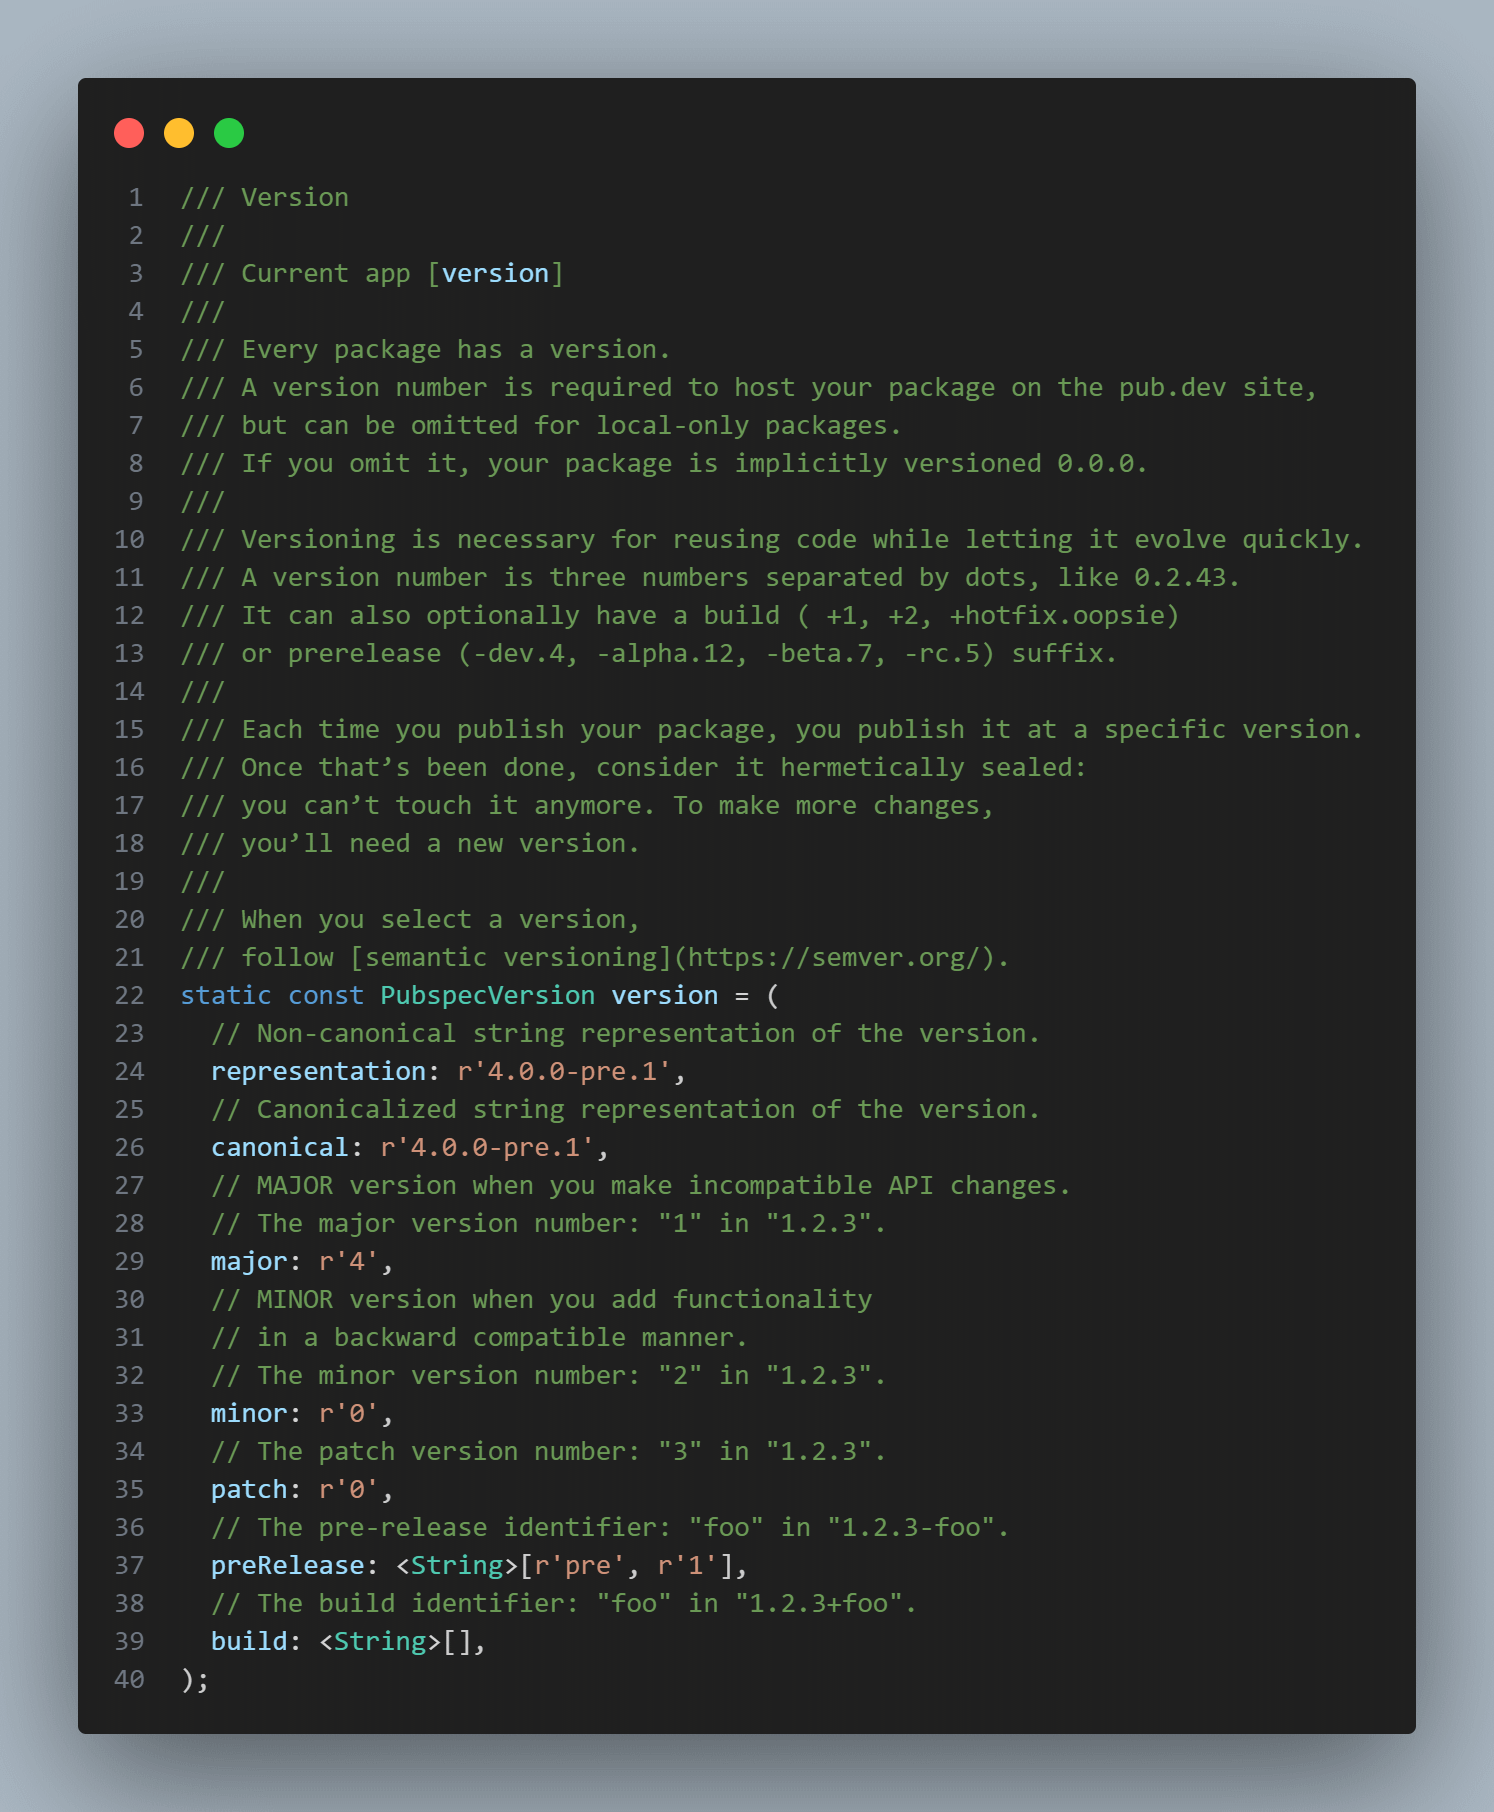
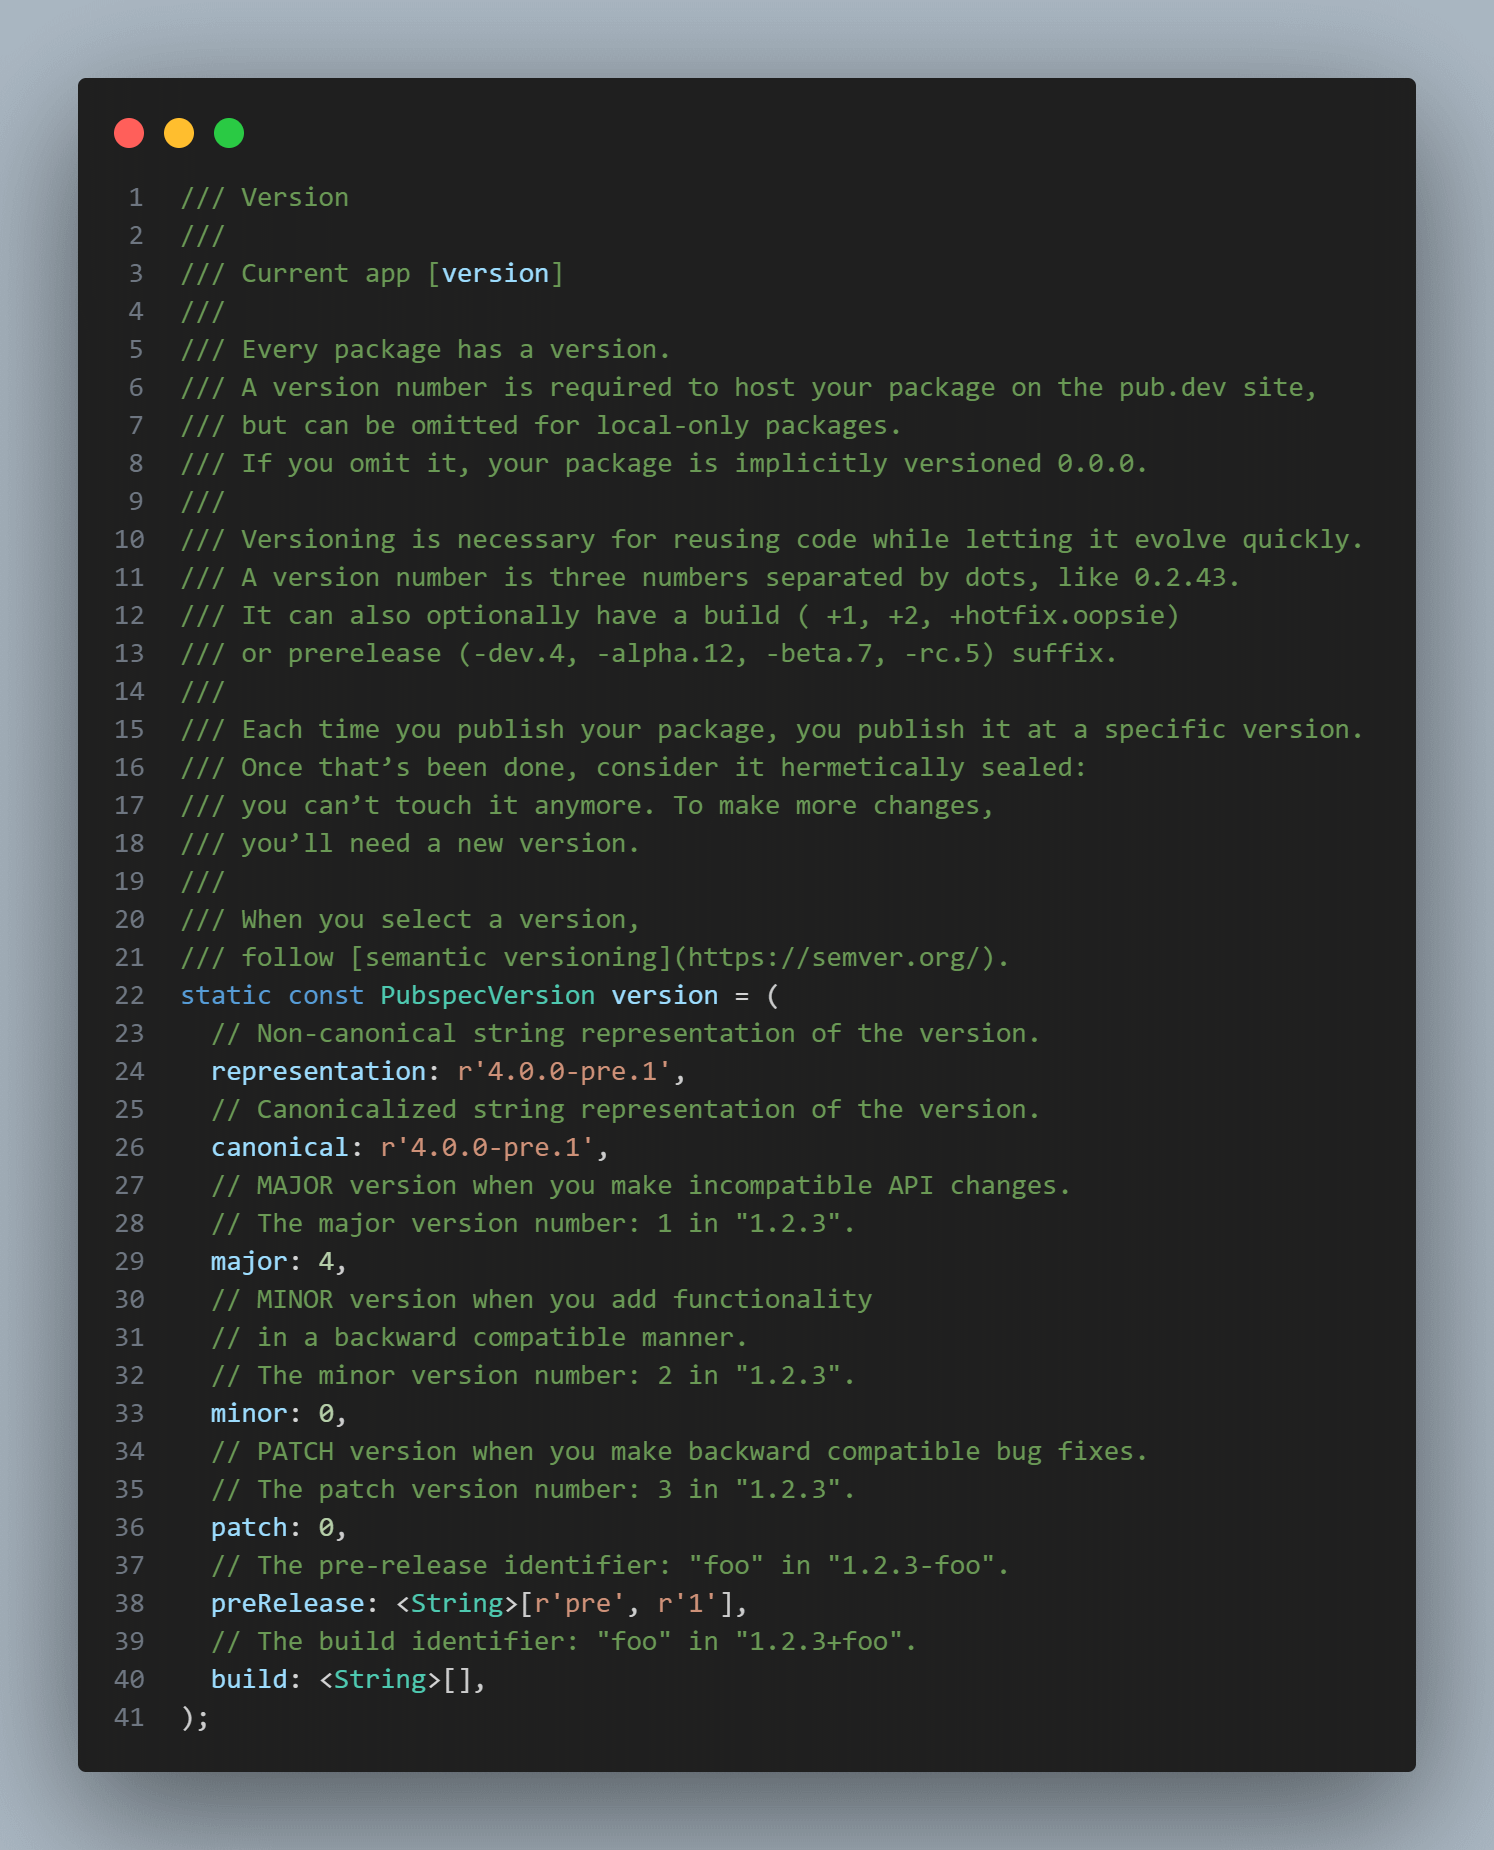
Version format quickfix

diff --git a/example/example.dart b/example/example.dart
@@ -46,9 +46,9 @@ library pubspec;
 typedef PubspecVersion = ({
   String representation,
   String canonical,
-  String major,
-  String minor,
-  String patch,
+  int major,
+  int minor,
+  int patch,
   List<String> preRelease,
   List<String> build
 });
@@ -95,14 +95,15 @@ sealed class Pubspec {
     // Canonicalized string representation of the version.
     canonical: r'4.0.0-pre.1',
     // MAJOR version when you make incompatible API changes.
-    // The major version number: "1" in "1.2.3".
-    major: r'4',
+    // The major version number: 1 in "1.2.3".
+    major: 4,
     // MINOR version when you add functionality
     // in a backward compatible manner.
-    // The minor version number: "2" in "1.2.3".
-    minor: r'0',
-    // The patch version number: "3" in "1.2.3".
-    patch: r'0',
+    // The minor version number: 2 in "1.2.3".
+    minor: 0,
+    // PATCH version when you make backward compatible bug fixes.
+    // The patch version number: 3 in "1.2.3".
+    patch: 0,
     // The pre-release identifier: "foo" in "1.2.3-foo".
     preRelease: <String>[r'pre', r'1'],
     // The build identifier: "foo" in "1.2.3+foo".
@@ -115,10 +116,10 @@ sealed class Pubspec {
     6,
     30,
     13,
-    24,
-    42,
-    973,
-    864,
+    41,
+    23,
+    584,
+    25,
   );
 
   /// Name

diff --git a/lib/src/generator/version_generator_mixin.dart b/lib/src/generator/version_generator_mixin.dart
@@ -27,14 +27,15 @@ mixin VersionGeneratorMixin on PubspecGenerator {
       '  // Canonicalized string representation of the version.\n'
       '  canonical: r\'${version.canonicalizedVersion}\',\n'
       '  // MAJOR version when you make incompatible API changes.\n'
-      '  // The major version number: "1" in "1.2.3".\n'
-      '  major: r\'${version.major}\',\n'
+      '  // The major version number: 1 in "1.2.3".\n'
+      '  major: ${version.major},\n'
       '  // MINOR version when you add functionality\n'
       '  // in a backward compatible manner.\n'
-      '  // The minor version number: "2" in "1.2.3".\n'
-      '  minor: r\'${version.minor}\',\n'
-      '  // The patch version number: "3" in "1.2.3".\n'
-      '  patch: r\'${version.patch}\',\n'
+      '  // The minor version number: 2 in "1.2.3".\n'
+      '  minor: ${version.minor},\n'
+      '  // PATCH version when you make backward compatible bug fixes.\n'
+      '  // The patch version number: 3 in "1.2.3".\n'
+      '  patch: ${version.patch},\n'
       '  // The pre-release identifier: "foo" in "1.2.3-foo".\n'
       '  preRelease: <String>[${_preRelease(version.preRelease)}],\n'
       '  // The build identifier: "foo" in "1.2.3+foo".\n'

diff --git a/lib/src/generator/typedef_generator_mixin.dart b/lib/src/generator/typedef_generator_mixin.dart
@@ -12,9 +12,9 @@ mixin TypedefGeneratorMixin on PubspecGenerator {
       ..writeln('typedef PubspecVersion = ({')
       ..writeln('  String representation,')
       ..writeln('  String canonical,')
-      ..writeln('  String major,')
-      ..writeln('  String minor,')
-      ..writeln('  String patch,')
+      ..writeln('  int major,')
+      ..writeln('  int minor,')
+      ..writeln('  int patch,')
       ..writeln('  List<String> preRelease,')
       ..writeln('  List<String> build')
       ..writeln('});');

diff --git a/README.md b/README.md
@@ -65,15 +65,14 @@ sealed class Pubspec {
     build: <String>[],
   );
 
-  static final DateTime timestamp = DateTime(
-    2023,
-    6,
-    30,
-    13,
-    12,
-    15,
-    487,
-    936,
+  static const PubspecVersion version = (
+    representation: r'4.0.0-pre.1',
+    canonical: r'4.0.0-pre.1',
+    major: 4,
+    minor: 0,
+    patch: 0,
+    preRelease: <String>[r'pre', r'1'],
+    build: <String>[],
   );
 
   static const String name = r'pubspec_generator';
